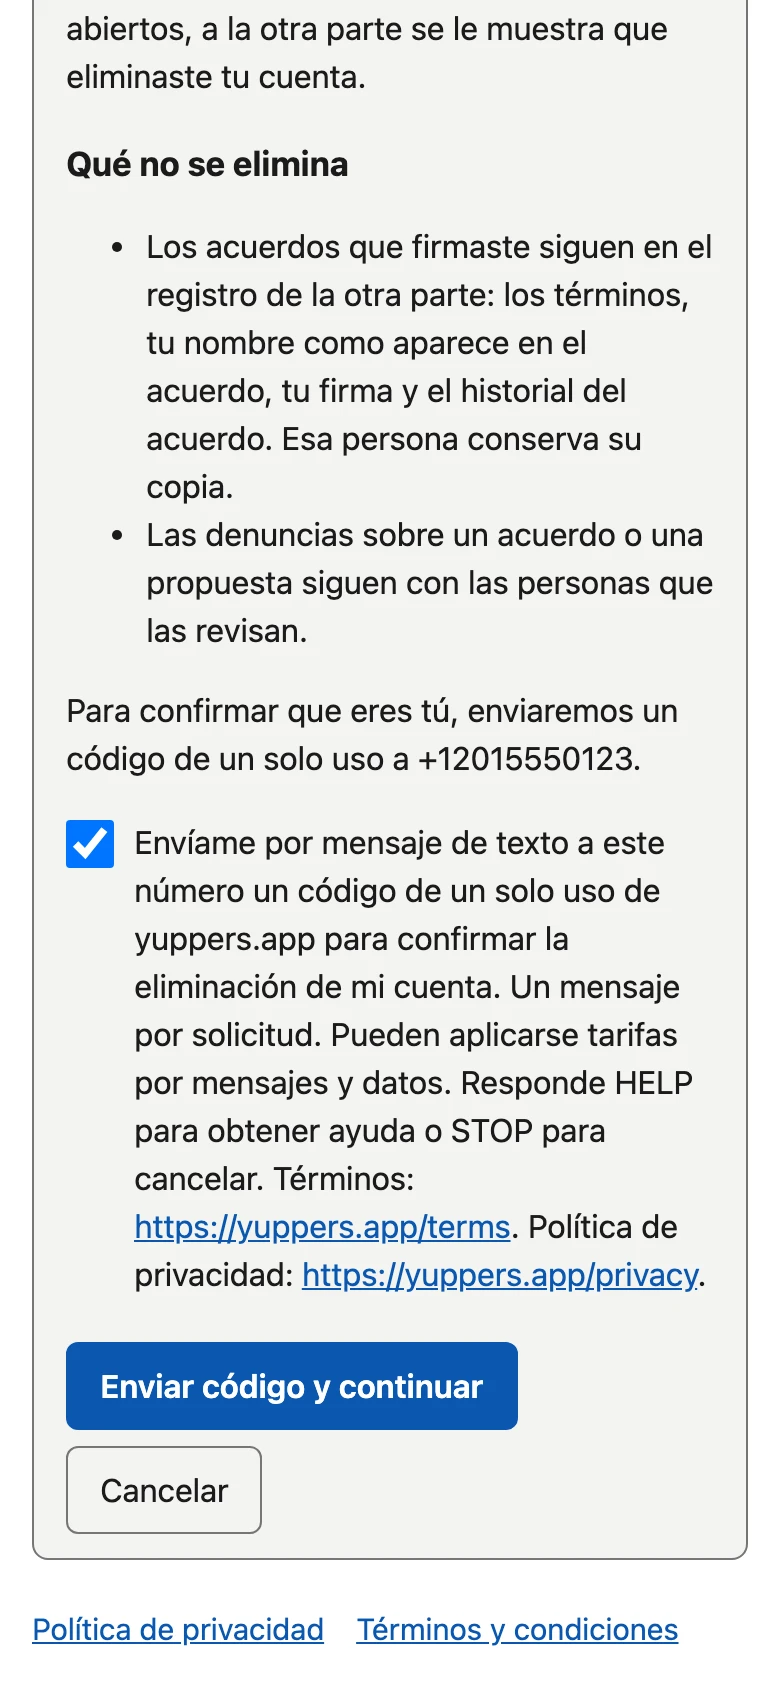
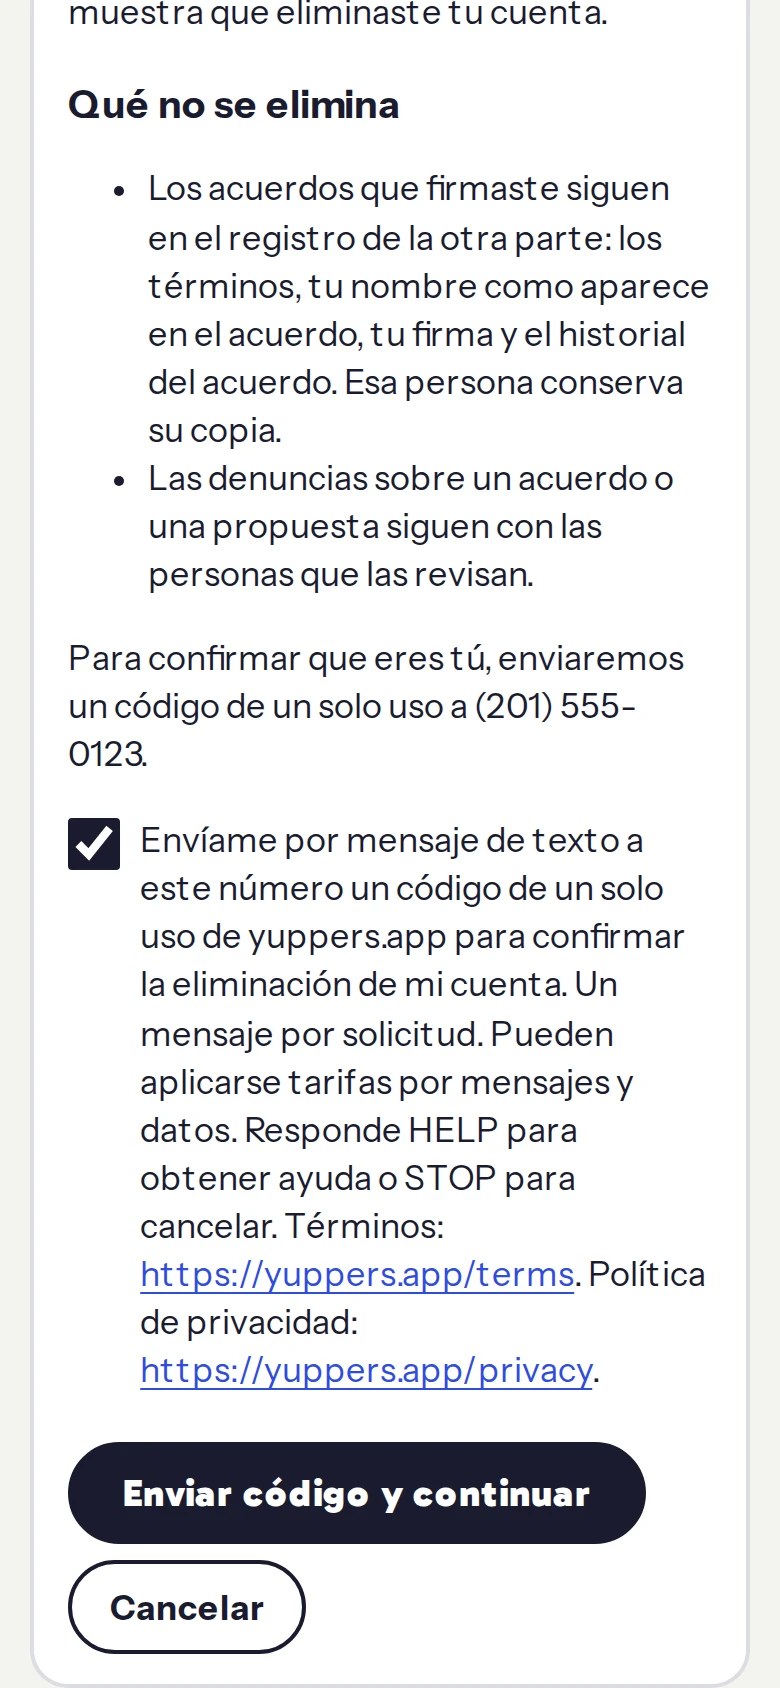
Opt-in evidence: web screenshots retaken on the current screens
The sign-in screen now carries the terms sentence, the text-updates
screen says what the detail setting adds, and the account page shows
the number as the screens do. The mobile spec gets the same fix as the
web one for the deletion panel's number.

Claude-Session: https://claude.ai/code/session_01Jdrqv1j5ibtm6PMvu8c1aM
(cherry picked from commit a9f162da4194303a865e970c002eab8bf2226b25)

Changed region(s): [[0.0308, 0.0, 0.9538, 1.0], [0.9538, 0.0, 0.9846, 0.9858]]

diff --git a/apps/mobile/e2e/screenshots/sms-opt-in.shots.ts b/apps/mobile/e2e/screenshots/sms-opt-in.shots.ts
@@ -358,7 +358,7 @@ for (const [language, locale, w] of [
     await page.goto('/account')
     await shown(page.getByRole('button', { name: w.deletion.open, exact: true })).click()
     await expect(
-      shown(page.getByText(fill(w.deletion.codeIntro, { identifier: SAMPLE_PHONE }), { exact: true })),
+      shown(page.getByText(fill(w.deletion.codeIntro, { identifier: shownPhone(SAMPLE_PHONE) }), { exact: true })),
     ).toBeVisible()
     const deletionBox = shown(page.getByRole('checkbox', { name: w.smsCode.deleteAccount, exact: true }))
     const sendDeletion = shown(page.getByRole('button', { name: w.deletion.sendCode, exact: true }))
